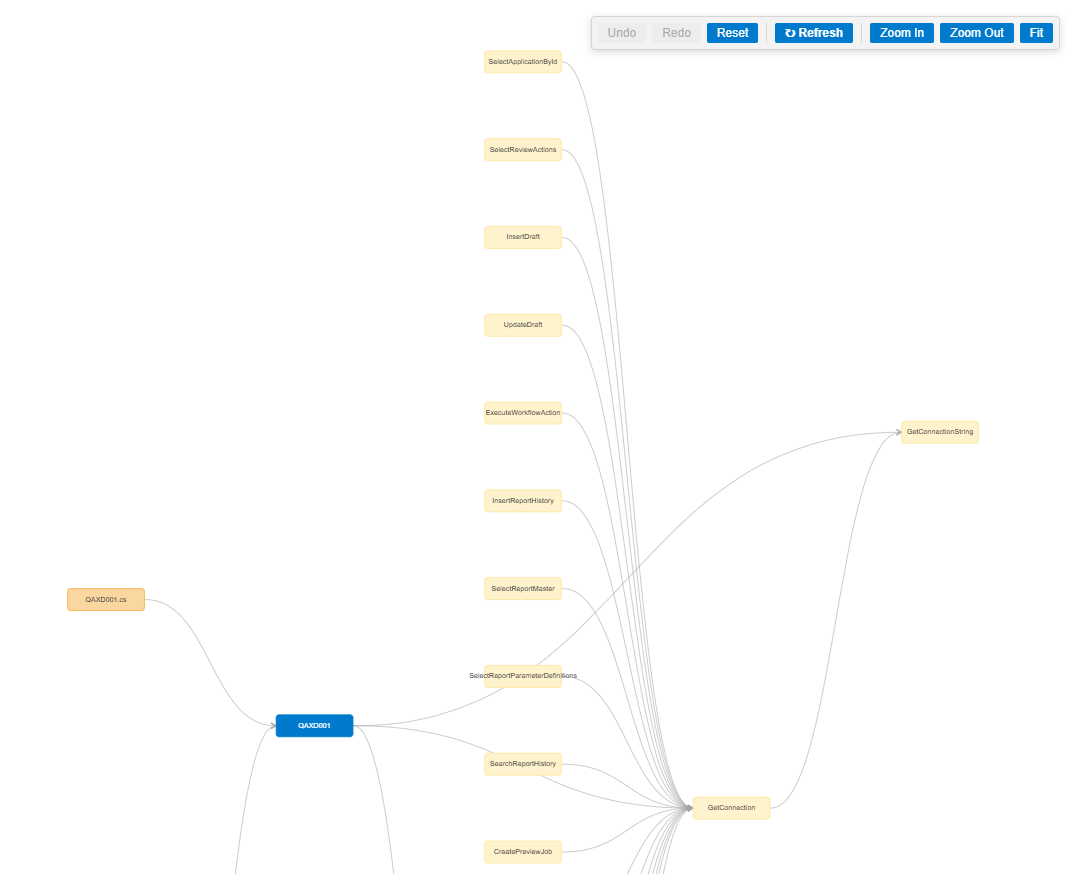
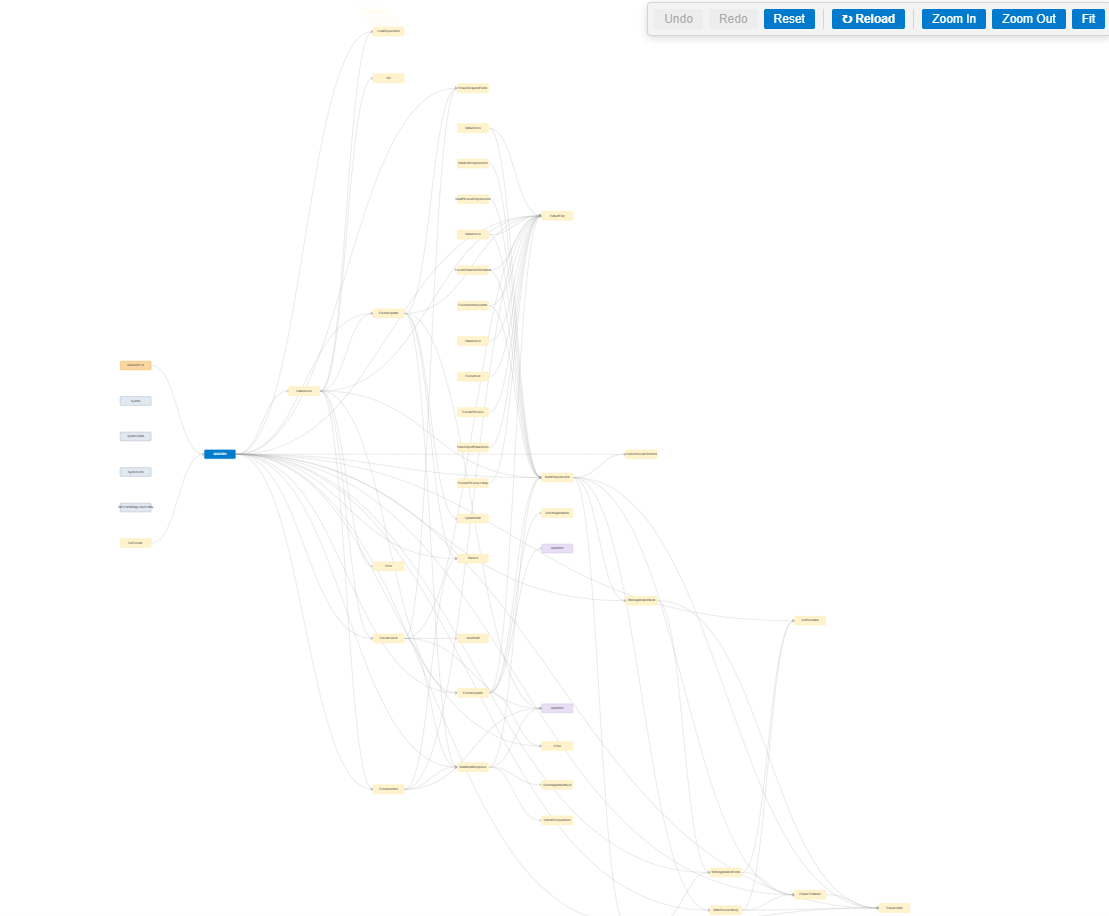
version0.0.3

diff --git a/src/webview/getWebviewContent.ts b/src/webview/getWebviewContent.ts
@@ -86,7 +86,7 @@ export function getWebviewContent() {
             <button id="btn-reset" class="tool-btn" title="Back to initial state">Reset</button>
             <span class="tool-sep"></span>
             <span id="stale-badge" class="stale-badge" title="File changes detected — graph may be out of date">&#9888; Outdated</span>
-            <button id="btn-refresh" class="tool-btn" title="Refresh graph with latest data">&#x21bb; Refresh</button>
+            <button id="btn-refresh" class="tool-btn" title="Reload graph from latest indexed data">&#x21bb; Reload</button>
             <span class="tool-sep"></span>
             <button id="btn-zoom-in" class="tool-btn" title="Zoom in">Zoom In</button>
             <button id="btn-zoom-out" class="tool-btn" title="Zoom out">Zoom Out</button>
@@ -97,6 +97,9 @@ export function getWebviewContent() {
 
         <div id="ctxMenu">
             <div class="ctx-item" data-action="source">Source</div>
+            <div class="ctx-item" data-action="detail">Detail</div>
+            <div class="ctx-item" data-action="copyYml">Copy YAML</div>
+            <div class="ctx-item" data-action="copyMd">Copy Markdown Tree</div>
         </div>
 
         <script>
@@ -186,9 +189,9 @@ export function getWebviewContent() {
 
                 btnReset && btnReset.addEventListener('click', () => {
                     if (!initialSnapshot) return;
-                    undoStack.push(cloneState());
+                    // True reset: clear undo/redo, restore initial state directly
+                    undoStack = [];
                     redoStack = [];
-                    // Restore from initial snapshot
                     currentData = JSON.parse(JSON.stringify(initialSnapshot.data));
                     expandedNodes = JSON.parse(JSON.stringify(initialSnapshot.expanded));
                     const theme = getBaseTheme();
@@ -264,6 +267,17 @@ export function getWebviewContent() {
                 ctxNode = null;
             }
 
+            function showCtxMenu(x, y, isNode) {
+                const menu = document.getElementById('ctxMenu');
+                document.querySelector('[data-action="source"]').style.display = isNode ? '' : 'none';
+                document.querySelector('[data-action="detail"]').style.display = isNode ? '' : 'none';
+                document.querySelector('[data-action="copyYml"]').style.display = isNode ? 'none' : '';
+                document.querySelector('[data-action="copyMd"]').style.display = isNode ? 'none' : '';
+                menu.style.display = 'block';
+                menu.style.left = x + 'px';
+                menu.style.top = y + 'px';
+            }
+
             // ── Collapse subtree ──
             function collapseChildren(nodeId) {
                 if (!graph) return;
@@ -299,7 +313,12 @@ export function getWebviewContent() {
                 graph.getNodes().forEach(n => {
                     const m = n.getModel();
                     if (expandedNodes[m.id] && expandedNodes[m.id].length > 0) {
-                        graph.updateItem(n, { style: { ...m.style, lineWidth: 3 } });
+                        graph.updateItem(n, {
+                            style: { ...m.style, lineWidth: 3, stroke: '#FFA500', shadowColor: '#FFA500', shadowBlur: 8 }
+                        });
+                    } else {
+                        // Reset to default if collapsed
+                        graph.updateItem(n, { style: { ...m.style, lineWidth: 1.5, shadowBlur: 0 } });
                     }
                 });
             }
@@ -346,15 +365,20 @@ export function getWebviewContent() {
                         toggleExpand(model);
                     });
 
-                    // Right-click → show context menu
+                    // Right-click node → context menu with Source / Detail
                     graph.on('node:contextmenu', (evt) => {
                         evt.preventDefault();
                         evt.stopPropagation();
                         ctxNode = evt.item;
-                        const menu = document.getElementById('ctxMenu');
-                        menu.style.display = 'block';
-                        menu.style.left = evt.clientX + 'px';
-                        menu.style.top = evt.clientY + 'px';
+                        showCtxMenu(evt.clientX, evt.clientY, true);
+                    });
+
+                    // Right-click canvas → context menu with Copy YAML / Markdown Tree
+                    graph.on('canvas:contextmenu', (evt) => {
+                        evt.preventDefault();
+                        evt.stopPropagation();
+                        ctxNode = null;
+                        showCtxMenu(evt.clientX, evt.clientY, false);
                     });
 
                     // Click canvas → close menu
@@ -425,6 +449,7 @@ export function getWebviewContent() {
 
                 graph.layout();
                 updateExpandedStyles();
+                setTimeout(() => graph.fitView(20), 100);
             }
 
             // ── Theme update ──
@@ -441,20 +466,94 @@ export function getWebviewContent() {
                 });
             }
 
+            // ── YAML export ──
+            function buildYaml() {
+                if (!currentData) return '';
+                var yml = 'nodes:\\n';
+                currentData.nodes.forEach(function(n) {
+                    yml += '  - id: ' + n.id + '\\n';
+                    yml += '    name: ' + n.label + '\\n';
+                    yml += '    kind: ' + n.kind + '\\n';
+                    yml += '    file: ' + (n.filePath || '') + '\\n';
+                    yml += '    line: ' + (n.line || '') + '\\n';
+                });
+                yml += 'edges:\\n';
+                currentData.edges.forEach(function(e) {
+                    var srcNode = currentData.nodes.find(function(n) { return n.id === e.source; });
+                    var tgtNode = currentData.nodes.find(function(n) { return n.id === e.target; });
+                    yml += '  - source: ' + e.source;
+                    yml += srcNode ? ' # ' + srcNode.label : '';
+                    yml += '\\n';
+                    yml += '    target: ' + e.target;
+                    yml += tgtNode ? ' # ' + tgtNode.label : '';
+                    yml += '\\n';
+                });
+                return yml;
+            }
+
+            // ── Markdown tree export ──
+            function buildMarkdownTree() {
+                if (!currentData || !currentData.nodes.length) return '';
+                // Find root nodes (depth 0 or center-style fill)
+                const roots = currentData.nodes.filter(n =>
+                    n.style && (n.style.fill === '#007ACC' || n.style.fill === '#005A9E')
+                );
+                const startNodes = roots.length > 0 ? roots : currentData.nodes.filter(n => n.depth === 0 || !n.depth);
+                if (!startNodes.length) return '';
+
+                const visited = new Set();
+                function renderTree(nodeId, indent) {
+                    if (visited.has(nodeId)) return '';
+                    visited.add(nodeId);
+                    const node = currentData.nodes.find(n => n.id === nodeId);
+                    if (!node) return '';
+                    const prefix = '  '.repeat(indent) + '- ';
+                    var out = prefix + '**' + node.label + '**';
+                    if (node.kind) out += ' _(' + node.kind + ')_';
+                    out += '\\n';
+                    const children = currentData.edges.filter(e => e.source === nodeId);
+                    children.forEach(e => {
+                        out += renderTree(e.target, indent + 1);
+                    });
+                    return out;
+                }
+
+                let md = '';
+                startNodes.forEach(n => {
+                    visited.clear();
+                    md += renderTree(n.id, 0);
+                });
+                return md;
+            }
+
             // ── Context menu click ──
             document.getElementById('ctxMenu').addEventListener('click', (e) => {
                 const item = e.target.closest('[data-action]');
                 const action = item ? item.getAttribute('data-action') : null;
                 const node = ctxNode; // Save before hideCtxMenu clears ctxNode
                 hideCtxMenu();
-                if (!action || !node) return;
-                if (action === 'source') {
-                    const model = node.getModel();
-                    console.log('[ctxMenu] source click, model:', model.id, model.filePath, model.line);
+                if (!action) return;
+                const model = node ? node.getModel() : null;
+
+                if (action === 'source' && model) {
                     vscode.postMessage({
                         command: 'openFile',
                         payload: { name: model.id, path: model.filePath, line: model.line }
                     });
+                }
+                if (action === 'detail' && model) {
+                    vscode.postMessage({
+                        command: 'showDetail',
+                        payload: { id: model.id, name: model.label, filePath: model.filePath, line: model.line, kind: model.kind }
+                    });
+                }
+                if (action === 'copyYml') {
+                    const text = buildYaml();
+                    vscode.postMessage({ command: 'copyToClipboard', payload: { text, label: 'YAML' } });
+                }
+                if (action === 'copyMd') {
+                    const text = buildMarkdownTree();
+                    vscode.postMessage({ command: 'copyToClipboard', payload: { text, label: 'Markdown Tree' } });
                 }
             });
 

diff --git a/src/extension.ts b/src/extension.ts
@@ -222,6 +222,48 @@ export function activate(context: vscode.ExtensionContext) {
                         vscode.window.showErrorMessage(`Refresh graph failed: ${err.message}`);
                     }
                 }
+
+                if (message.command === 'copyToClipboard') {
+                    await vscode.env.clipboard.writeText(message.payload.text);
+                    vscode.window.showInformationMessage(`Copied ${message.payload.label || 'text'} to clipboard.`);
+                }
+
+                if (message.command === 'showDetail') {
+                    const { id } = message.payload;
+                    try {
+                        const cg2 = await CodeGraph.open(workspaceRoot);
+                        const node = cg2.getNode(id);
+                        if (!node) {
+                            vscode.window.showWarningMessage('Node not found in CodeGraph database.');
+                            return;
+                        }
+                        const detail = `CodeGraph Node Detail
+========================
+ID:          ${node.id}
+Name:        ${node.name}
+Kind:        ${node.kind}
+File:        ${node.filePath || '(none)'}
+Lines:       ${node.startLine} – ${node.endLine}
+Qualified:   ${node.qualifiedName}
+Language:    ${node.language}
+Visibility:  ${node.visibility || '(none)'}
+Exported:    ${node.isExported ?? '(unknown)'}
+Static:      ${node.isStatic ?? '(unknown)'}
+Async:       ${node.isAsync ?? '(unknown)'}
+Signature:   ${node.signature || '(none)'}
+Docstring:   ${node.docstring || '(none)'}
+Decorators:  ${node.decorators?.join(', ') || '(none)'}
+Type params: ${node.typeParameters?.join(', ') || '(none)'}
+`;
+                        const doc = await vscode.workspace.openTextDocument({
+                            content: detail,
+                            language: 'plaintext',
+                        });
+                        await vscode.window.showTextDocument(doc, { viewColumn: vscode.ViewColumn.Beside });
+                    } catch (err: any) {
+                        vscode.window.showErrorMessage(`Failed to show detail: ${err.message}`);
+                    }
+                }
             });
 
             panel.webview.html = getWebviewContent();

diff --git a/README.md b/README.md
@@ -36,13 +36,18 @@ Indexing runs in the background via `npx @colbymchenry/codegraph init`. Progress
 
 | Action | Result |
 |--------|--------|
-| **Double-click** a node | Expand one level — query callers and callees of that node |
-| **Double-click** an expanded node | Collapse its subtree |
-| **Right-click** a node → `Source` | Jump to the symbol's definition in the editor |
+| **Double-click** a node | Expand one level — query callers and callees of that node. Expanded nodes get an orange glow highlight. |
+| **Double-click** an expanded node | Collapse its subtree (highlight removed) |
+| **Right-click** a node | Context menu with **Source** (jump to definition) and **Detail** (full node metadata) |
+| **Right-click** canvas | Context menu with **Copy YAML** and **Copy Markdown Tree** (export full graph) |
 | Drag canvas | Pan the view |
 | Scroll | Zoom in / out |
 | Drag a node | Reposition it |
 | Resize panel / window | Canvas automatically fills the new viewport |
+
+![Detail view](images/detail.png)
+
+![Canvas export menu](images/graph_export.png)
 
 ![Toolbar](images/toolbar.png)
 
@@ -51,9 +56,9 @@ Indexing runs in the background via `npx @colbymchenry/codegraph init`. Progress
 | Button | Action |
 |--------|--------|
 | Undo / Redo | Step through expand / collapse history |
-| Reset | Return to the initial graph |
+| Reset | Return to the initial graph (clears undo history) |
 | **⚠ Outdated** badge | Appears when the codebase changes behind the scenes |
-| **↻ Refresh** | Rebuild the graph from the latest indexed data |
+| **↻ Reload** | Rebuild the graph from the latest indexed data |
 | Zoom In / Zoom Out / Fit | Adjust the viewport |
 
 ### Background Sync & Stale Notification
@@ -63,7 +68,7 @@ When you save a file in the workspace:
 1. The extension debounces saves (2 s) and runs `codegraph sync` silently in the background.
 2. If a graph panel is open, a lightweight `dataStale` notification is sent — no heavy data transfer.
 3. A **⚠ Outdated** badge appears in the toolbar.
-4. Click **↻ Refresh** to rebuild the graph with the latest data. The refresh tries to preserve your current view context (symbol or file), automatically picking up renamed symbols via the cursor position.
+4. Click **↻ Reload** to rebuild the graph with the latest data. The refresh tries to preserve your current view context (symbol or file), automatically picking up renamed symbols via the cursor position.
 
 ## Extension Settings
 
@@ -87,7 +92,7 @@ This extension contributes the following settings (`codegraphG6.*`):
 2. On `Show Node Graph`, the extension queries CodeGraph for nodes and edges relevant to the current file or selected symbol.
 3. The data is rendered as an interactive DAG using **AntV G6** in a VS Code webview panel.
 4. Double-clicking a node triggers an incremental backend query; new nodes and edges are added without rebuilding the entire layout.
-5. On file save, CodeGraph runs an incremental sync. The webview is notified via a lightweight `dataStale` message — no full graph data is pushed until the user clicks Refresh.
+5. On file save, CodeGraph runs an incremental sync. The webview is notified via a lightweight `dataStale` message — no full graph data is pushed until the user clicks Reload.
 
 ## Supported Languages
 
@@ -97,6 +102,3 @@ TypeScript · JavaScript · Python · Go · Rust · Java · C# · PHP · Ruby ·
 
 *See the [CodeGraph README](https://github.com/colbymchenry/codegraph#supported-languages) for details on file extensions and framework-specific features.*
 
-## License
-
-MIT